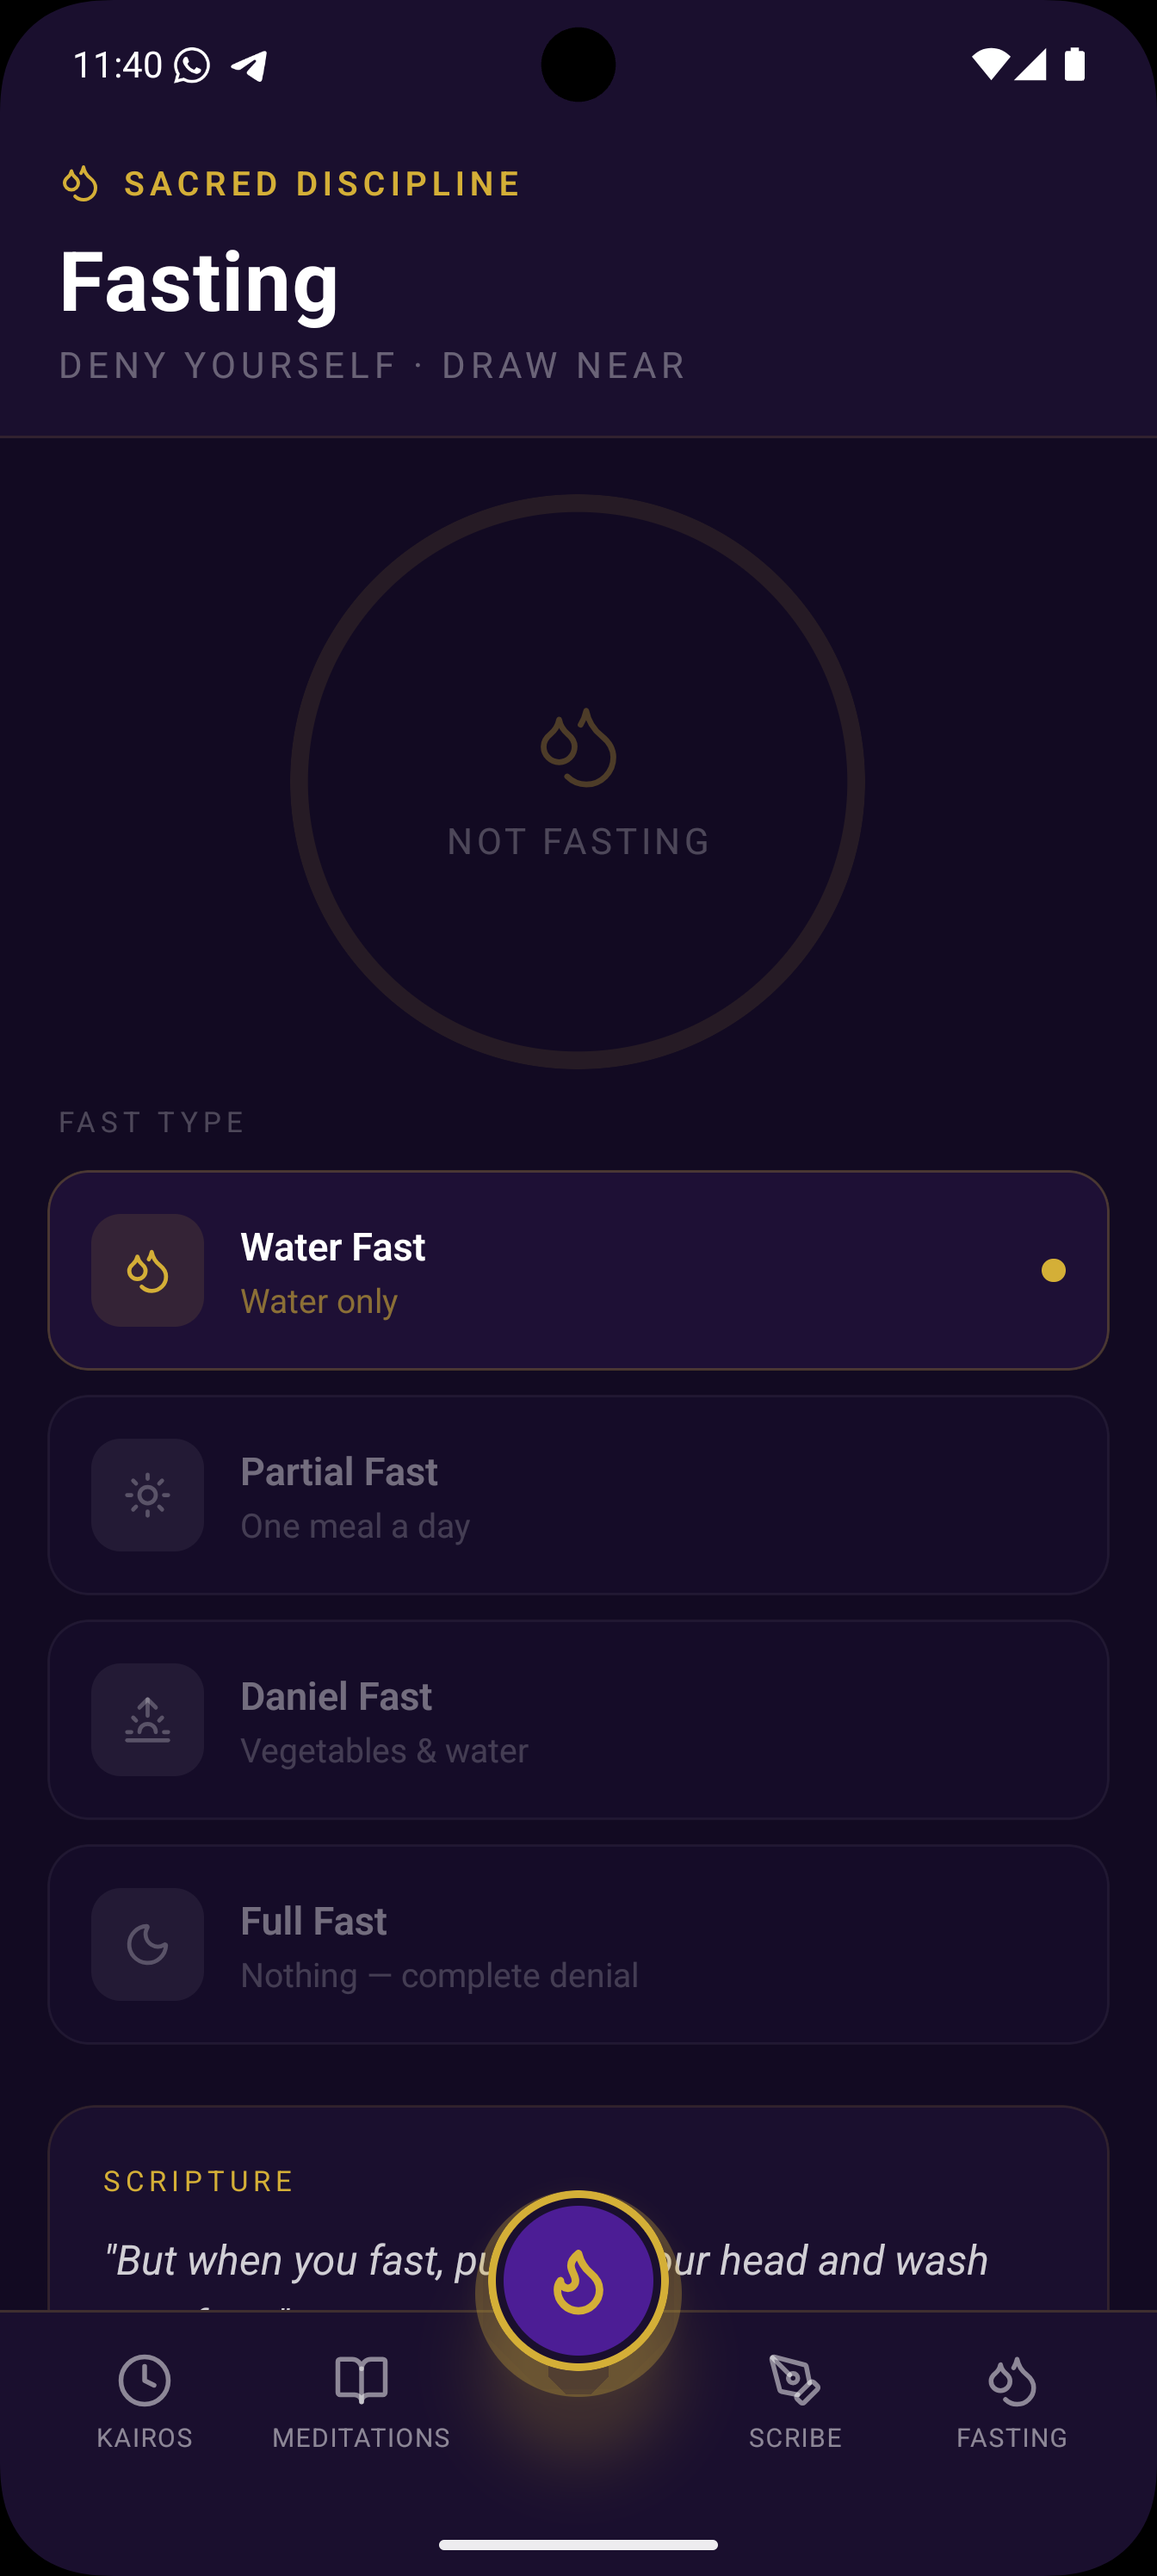
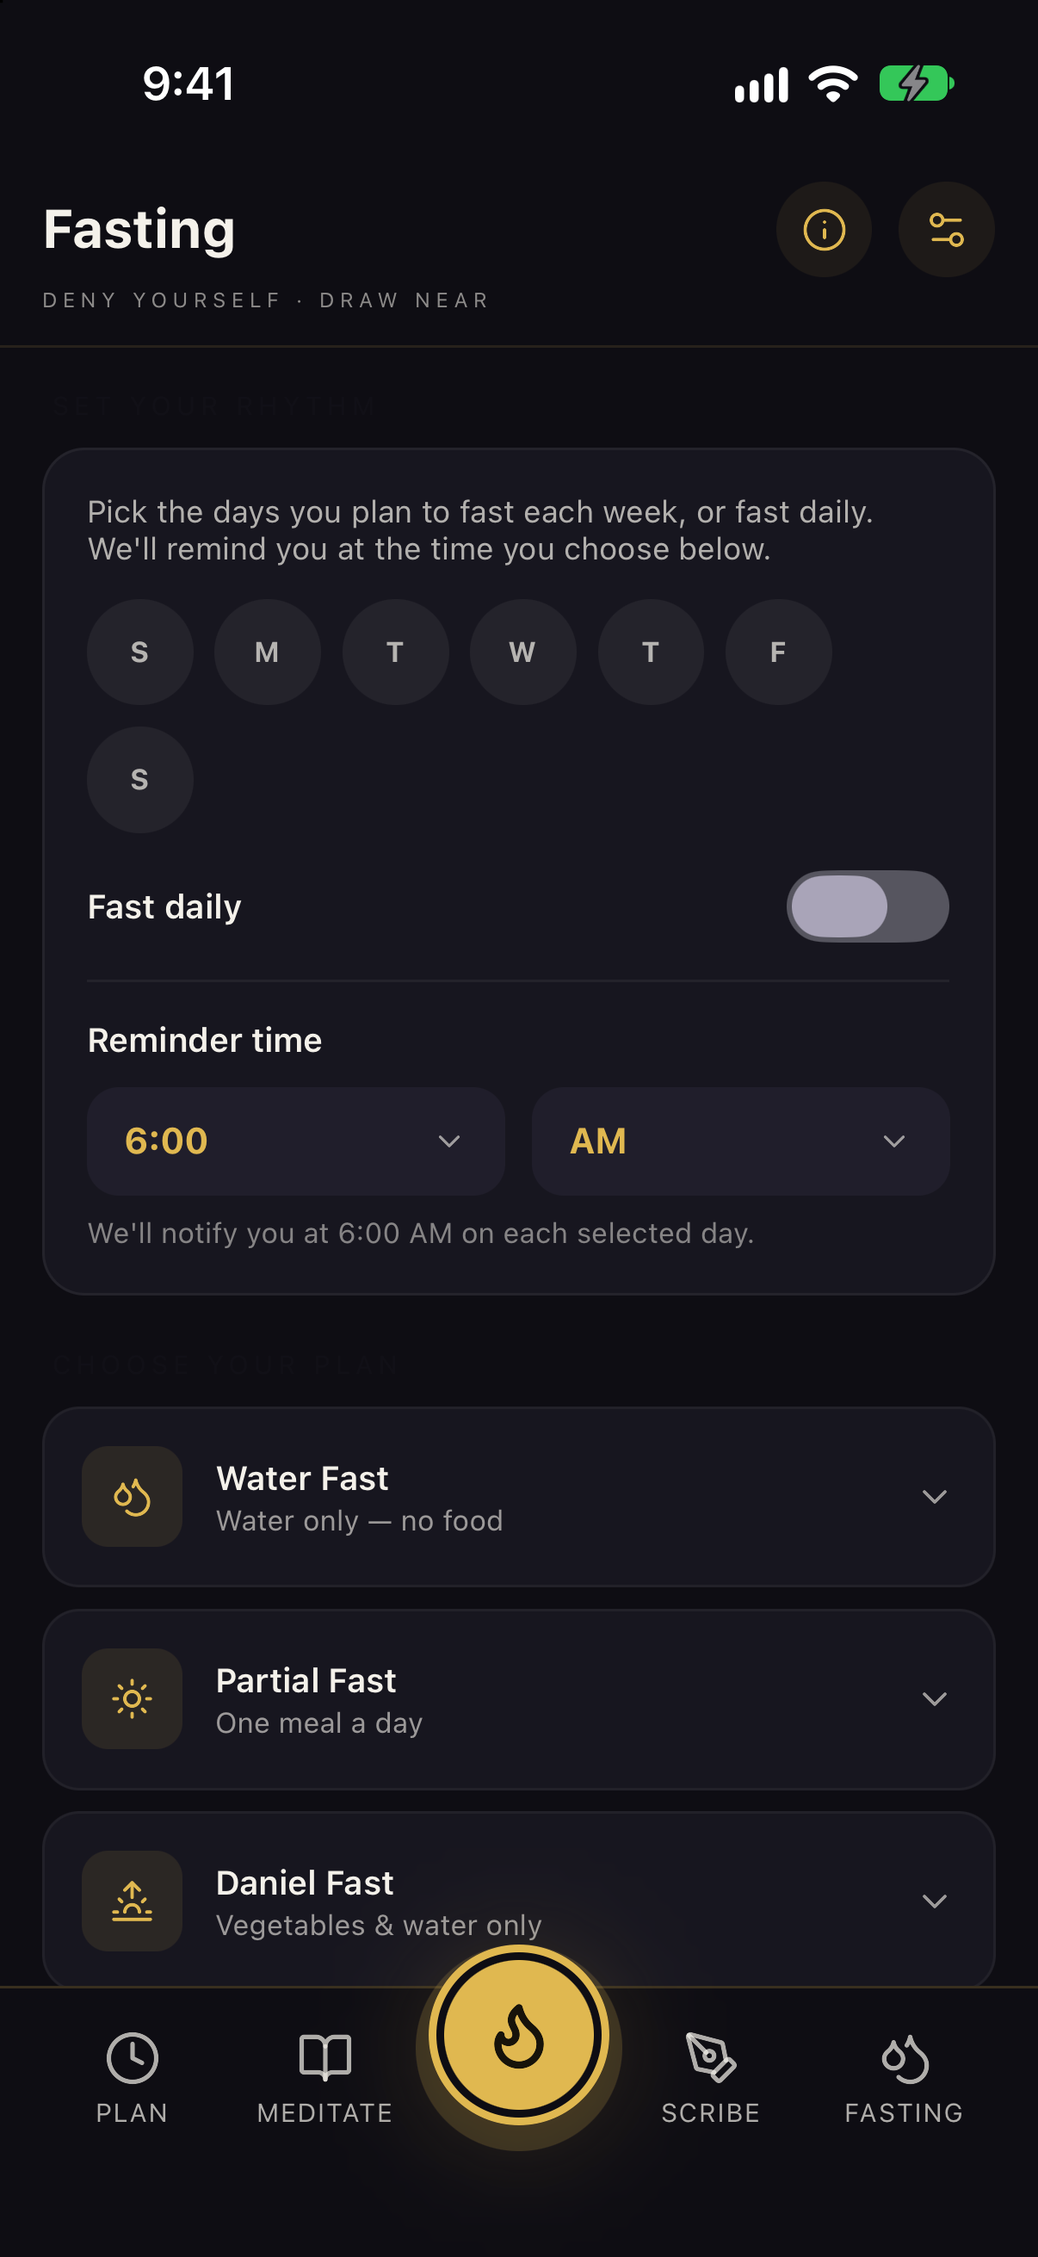
Kairos: new gold-theme screenshots (Altar, Plan, Meditate, Scribe, Fasting) and updated features

diff --git a/data/projects.ts b/data/projects.ts
@@ -491,12 +491,14 @@ export const projects: Project[] = [
       "Prayer plans ranging from short 5-minute sessions to longer guided sessions, customizable prayer schedules, fasting plans, journaling, testimonies, pinned prayer points, offline Scripture, meditation content, and notification-driven routines.",
     features: [
       "Daily prayer reminders at the hours you choose, each with a KJV verse",
+      "Plan screen with a live next-prayer countdown and quick-pick times",
       "Timed prayer sessions at the altar",
       "Seven kinds of fast with reminders",
-      "Prayer journal",
+      "Scribe journal: a timeline by month with search and tag filters, and PDF export",
+      "Daily wisdom from Christian preachers, each quote with its book or sermon",
       "Verse of the day, today's psalm and themes, all in the KJV",
-      "Light and dark mode, following your phone",
-      "18 tests, including reminder scheduling",
+      "Gold-accented light and dark mode, following your phone",
+      "20 tests, including reminder scheduling and colour contrast",
     ],
     tech: ["React Native", "Expo", "TypeScript", "SQLite", "Push Notifications", "AsyncStorage", "Prayer Plans", "Fasting", "Journaling"],
     categories: ["mobile", "faith"],
@@ -504,11 +506,11 @@ export const projects: Project[] = [
     color: "#3B82F6",
     icon: "/projects/kairos/icon.png",
     screenshots: [
-      "/projects/kairos/landnig-home.png",
+      "/projects/kairos/kairos-altar.png",
+      "/projects/kairos/kairos-plan.png",
       "/projects/kairos/kairos-meditate.png",
-      "/projects/kairos/kairos-pray.png",
-      "/projects/kairos/kairos-fast.png",
       "/projects/kairos/kairos-scribe.png",
+      "/projects/kairos/kairos-fast.png",
     ],
     links: {
       github: "https://github.com/tejHacks/kairos-mobile-app",
